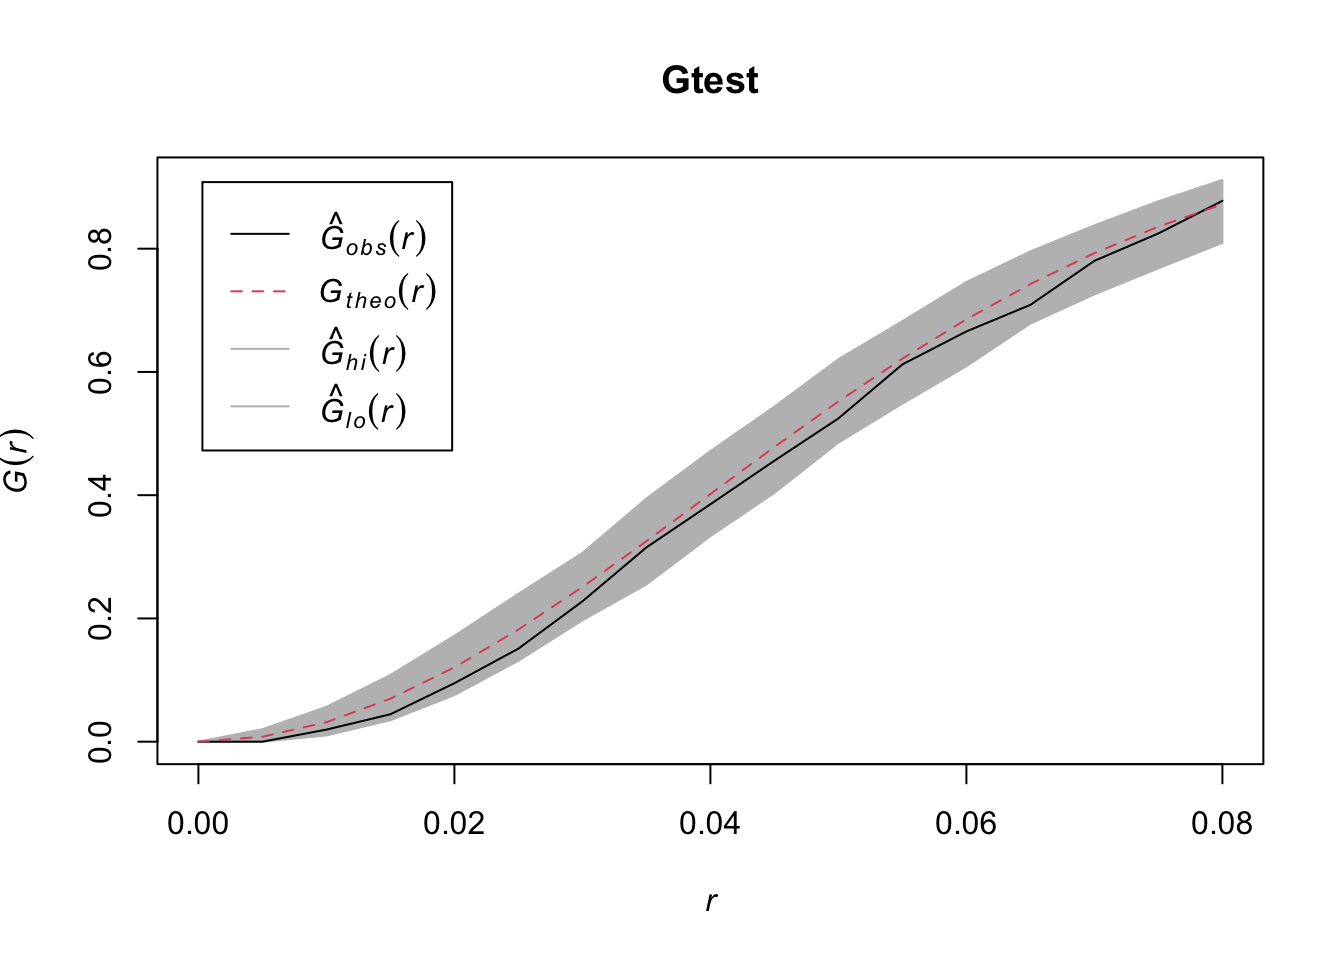
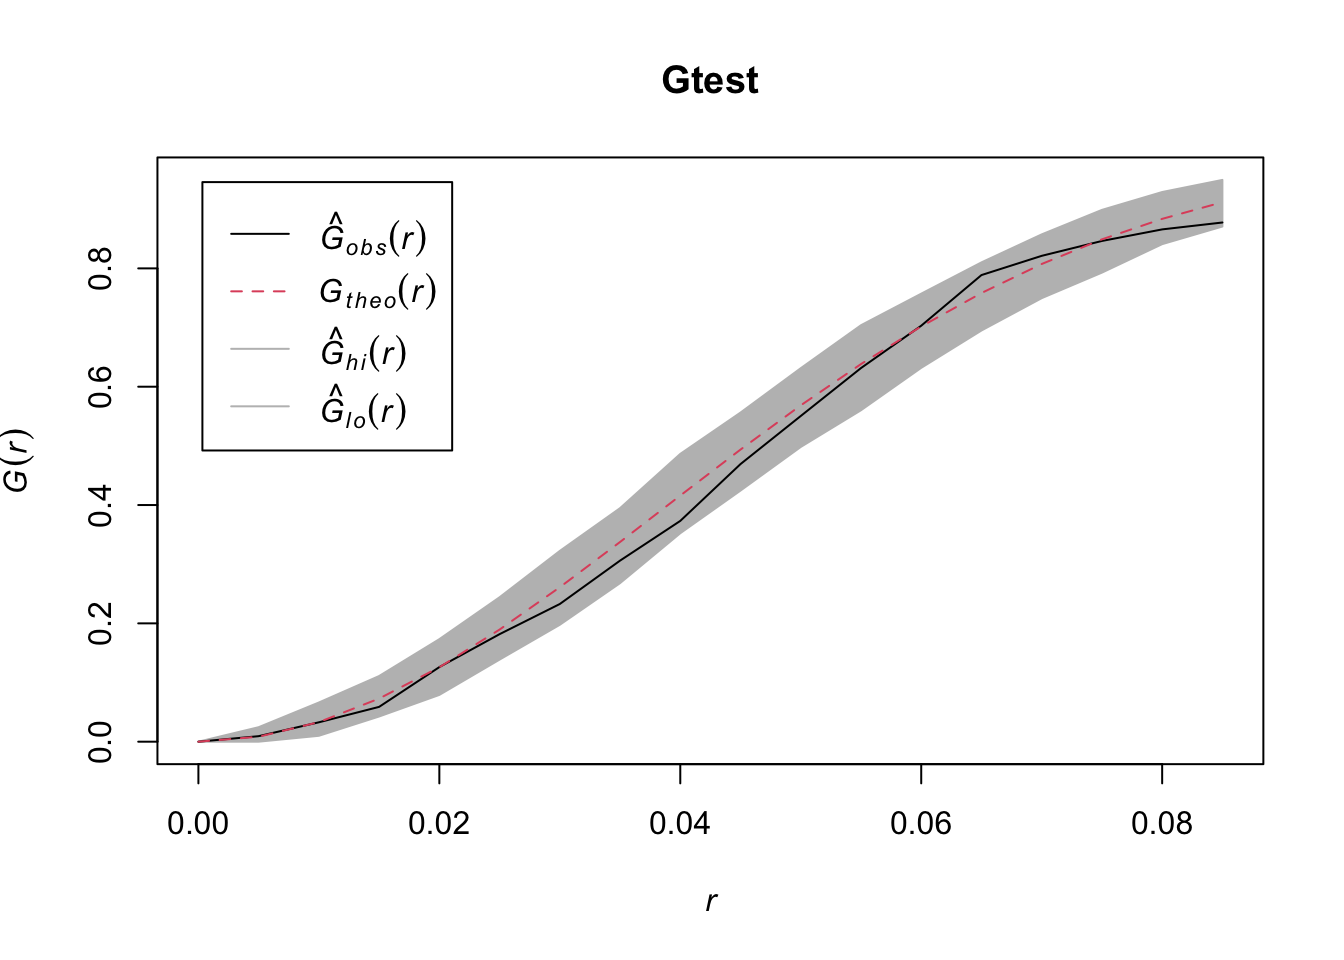
19th March

diff --git a/Week4.html b/Week4.html
@@ -282,6 +282,9 @@ $(document).ready(function () {
   <a href="Example1.html">Example 1</a>
 </li>
 <li>
+  <a href="Example2.html">Example 2</a>
+</li>
+<li>
   <a href="Solutions.html">Solutions</a>
 </li>
 <li>
@@ -289,6 +292,9 @@ $(document).ready(function () {
 </li>
 <li>
   <a href="Extra2.html">Extra 2</a>
+</li>
+<li>
+  <a href="Extra3.html">Extra 3</a>
 </li>
       </ul>
       <ul class="nav navbar-nav navbar-right">
@@ -372,7 +378,7 @@ generated in the domain D = [0,2]*[0,2].</li>
 ##  Chi-squared test of CSR using quadrat counts
 ## 
 ## data:  data1
-## X2 = 15.02, df = 15, p-value = 0.9
+## X2 = 13.421, df = 15, p-value = 0.8603
 ## alternative hypothesis: two.sided
 ## 
 ## Quadrats: 4 by 4 grid of tiles</code></pre>
@@ -384,8 +390,8 @@ generated in the domain D = [0,2]*[0,2].</li>
 x-axis and y-axis. Here, we have 4*4=16 blocks.</li>
 <li>alternative: alternative hypothesis. You can choose one of
 “two.sided”, “regular”, “clustered”.</li>
-<li>method: the method used to compute p-value. “Chisq” (analytical
-way), “MonteCarlo”</li>
+<li>method: the method used to compute p-value. “Chisq” (the method
+mentioned in this class)</li>
 </ul></li>
 </ul>
 <p>Since p-value is bigger than 0.05, we fail to reject <span
